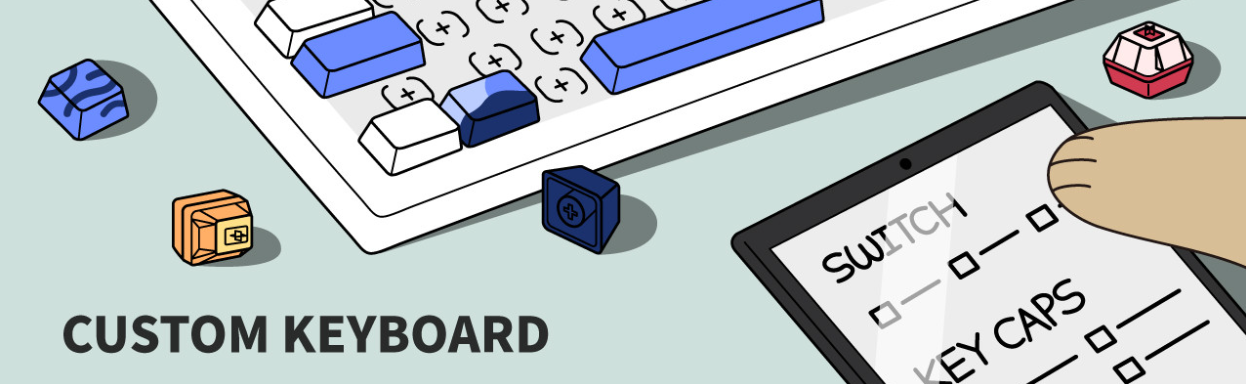
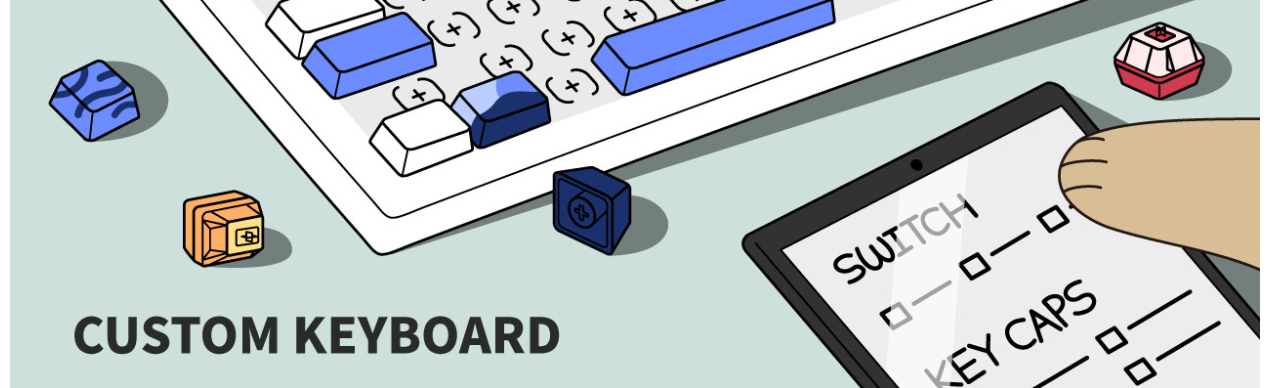
feat: Main

diff --git a/src/pages/Home.js b/src/pages/Home.js
@@ -1,33 +1,31 @@
-import React from "react";
+import React, { useState } from "react";
 import styled from "styled-components";
 import Layout from "../components/Layout";
 import Banner from "../components/Banner";
 import TextFrame from "../components/TextFrame";
 import ItemFrame1 from "../components/ItemFrame1";
 import ItemFrame2 from "../components/ItemFrame2";
-
-import { IoIosArrowForward, IoIosArrowBack } from "react-icons/io";
+import { MdArrowForwardIos, MdArrowBackIosNew } from "react-icons/md";
 
 const Container = styled.div`
-  width: 1550px;
+  width: 1500px;
   height: 100%;
-  display: flex-box;
-  align-items: center;
+  display: flex;
   flex-direction: column;
+  align-items: center;
 `;
 
 const Frame1 = styled.div`
-  width: 1550px;
+  width: 100%;
   height: 100%;
   display: flex;
   align-items: center;
   justify-content: space-between;
   flex-direction: row;
-  flex-wrap: wrap;
 `;
 
 const Frame2 = styled.div`
-  width: 1550px;
+  width: 100%;
   height: 100%;
   display: flex;
   align-items: center;
@@ -36,34 +34,114 @@ const Frame2 = styled.div`
   padding: 0 20px;
 `;
 
-const ArrowIconFront = styled(IoIosArrowForward)`
-  font-size: 24px;
+const ArrowIconFront = styled(MdArrowForwardIos)`
+  font-size: 30px;
+  cursor: pointer;
 `;
 
-const ArrowIconBack = styled(IoIosArrowBack)`
-  font-size: 24px;
+const ArrowIconBack = styled(MdArrowBackIosNew)`
+  font-size: 30px;
+  cursor: pointer;
 `;
+
+const RadioButtonContainer = styled.div`
+  display: flex;
+  justify-content: center;
+  margin-top: 30px;
+  margin-bottom: 30px;
+`;
+
+const RadioButton = styled.div`
+  width: 10px;
+  height: 10px;
+  background-color: ${({ isActive }) => (isActive ? '#6d8cff' : 'lightgrey')};
+  border-radius: 5px;
+  margin: 0 5px;
+  cursor: pointer;
+
+  &:hover {
+    background-color: #6d8cff;
+  }
+
+`;
+
 
 const HomeContent = () => {
+  const items1 = [
+    { image: "/images/test1.jpg", text: "Test 1" },
+    { image: "/images/test2.jpg", text: "Test 2" },
+    { image: "/images/test3.jpg", text: "Test 3" },
+  ];
+
+  const items2 = [
+    { image: "/images/keyboard1.png", text: "Keyboard 1" },
+    { image: "/images/keyboard2.png", text: "Keyboard 2" },
+    { image: "/images/keyboard3.png", text: "Keyboard 3" },
+    { image: "/images/keyboard4.png", text: "Keyboard 4" },
+    { image: "/images/keyboard5.png", text: "Keyboard 5" },
+    { image: "/images/keyboard6.jpg", text: "Keyboard 6" },
+    { image: "/images/keyboard7.png", text: "Keyboard 7" },
+    { image: "/images/keyboard8.jpg", text: "Keyboard 8" },
+  ];
+
+  const [currentIndex, setCurrentIndex] = useState(0);
+  const itemsPerPage = 4;
+
+  const totalPages = Math.ceil(items2.length / itemsPerPage);
+
+  const handleNext = () => {
+    if (currentIndex + itemsPerPage < items2.length) {
+      setCurrentIndex(currentIndex + itemsPerPage);
+    }
+  };
+
+  const handlePrev = () => {
+    if (currentIndex - itemsPerPage >= 0) {
+      setCurrentIndex(currentIndex - itemsPerPage);
+    }
+  };
+
+  const handleRadioClick = (index) => {
+    setCurrentIndex(index * itemsPerPage);
+  };
+
   return (
     <Container>
       <Banner />
 
       <Frame1>
-        {[...Array(3)].map((_, index) => (
-          <ItemFrame1 key={index} />
+        {items1.map((item, index) => (
+          <ItemFrame1 
+            key={index} 
+            image={item.image} 
+            text={item.text} />
         ))}
       </Frame1>
 
       <TextFrame>Popular Product</TextFrame>
 
       <Frame2>
-        <ArrowIconBack />
-        {[...Array(4)].map((_, index) => (
-          <ItemFrame2 key={index} />
-        ))}
-        <ArrowIconFront />
+        <ArrowIconBack onClick={handlePrev} />
+        {items2
+          .slice(currentIndex, currentIndex + itemsPerPage)
+          .map((item, index) => (
+            <ItemFrame2 
+              key={index} 
+              image={item.image} 
+              text={item.text} />
+          ))}
+        <ArrowIconFront onClick={handleNext} />
       </Frame2>
+
+      <RadioButtonContainer>
+        {Array.from({ length: totalPages }).map((_, index) => (
+          <RadioButton 
+            key={index}
+            isActive={currentIndex / itemsPerPage === index}
+            onClick={() => handleRadioClick(index)}
+          />
+        ))}
+      </RadioButtonContainer>
     </Container>
   );
 };

diff --git a/src/components/ItemFrame1.jsx b/src/components/ItemFrame1.jsx
@@ -2,32 +2,45 @@ import React from "react";
 import styled from "styled-components";
 
 const Container = styled.div`
-    width: 31%;
-    height: 440px;
-    border: solid 1px;
-`
+  width: 32%;
+  height: 520px;
+  border: solid 1px;
+  cursor: pointer;
+`;
 
 const ImageFrame1 = styled.div`
-    width: 100%;
-    height: 70%;
-    border: solid 1px;
-`
+  width: 100%;
+  height: 70%;
+  border: solid 1px;
+  background-image: url(${props => props.image});
+  background-size: cover;
+  background-position: center;
+`;
 
 const TextFrame1 = styled.div`
-    width: 100%;
-    height: 30%;
+  width: 100%;
+  height: 30%;
+  border: solid 1px;
+  display: flex;
+  align-items: center;
+  justify-content: center;
+`;
+
+const Text1 = styled.div`
     border: solid 1px;
 `
-const ItemFrame1 = () => {
-    return (
-        <>
-        <Container>
-            <ImageFrame1/>
-            <TextFrame1/>
-        </Container>
 
-        </>
-    )
-}
+const ItemFrame1 = ({image,text}) => {
+  return (
+    <>
+      <Container>
+      <ImageFrame1 image={image} />
+      <TextFrame1>
+        <Text1>{text}</Text1>
+      </TextFrame1>
+      </Container>
+    </>
+  );
+};
 
 export default ItemFrame1;

diff --git a/src/components/ItemFrame2.jsx b/src/components/ItemFrame2.jsx
@@ -5,25 +5,38 @@ const Container = styled.div`
   width: 300px;
   height: 350px;
   border: solid 1px;
+  cursor: pointer;
 `;
 
-const ImageFrame = styled.div`
+const ImageFrame2 = styled.div`
   width: 100%;
-  height: 80%;
+  height: 300px;
+  border: solid 1px;
+  background-image: url(${props => props.image});
+  background-size: cover;
+  background-position: center;
+`;
+
+const TextFrame2 = styled.div`
+  width: 100%;
+  height: 50px;
+  border: solid 1px;
+  display: flex;
+  align-items: center;
+  justify-content: center;
+`;
+
+const Text2 = styled.div`
   border: solid 1px;
 `;
 
-const TextContainer = styled.div`
-  width: 100%;
-  height: 20%;
-  border: solid 1px;
-`;
-
-const ItemFrame2 = () => {
+const ItemFrame2 = ({ image, text }) => {
   return (
     <Container>
-      <ImageFrame />
-      <TextContainer />
+      <ImageFrame2 image={image} />
+      <TextFrame2>
+        <Text2>{text}</Text2>
+      </TextFrame2>
     </Container>
   );
 };

diff --git a/src/components/Footer.jsx b/src/components/Footer.jsx
@@ -49,11 +49,11 @@ const Footer = () => {
                     <Icon><RiKakaoTalkFill /></Icon>
                     <Icon><AiFillDiscord /></Icon>
                 </IconWrapper>
-                <h4>팀명 뭐로 하지?</h4>
+                <h4 style={{paddingBottom:"10px"}}>Tabs</h4>
                 <span>인제대학교 | 경남 김해시 인제로 197 P&N 동아리방 TEL.010-2362-8861 | 대표: 현지훈</span>
                 <span>본사: 부산광역시 사상구 가야대로 xxx번길 xx 4층</span>
                 <span>고객센터: 055-334-7111 | E-MAIL: ji55hun@oasis.inje.ac.kr</span>
-                <span style={{paddingTop:"10px",fontWeight:"bold"}}>Copyright ⓒ 2024 커스텀키보드 제조기업 팀명 All rights reserved.</span>
+                <span style={{paddingTop:"10px",fontWeight:"bold"}}>Copyright ⓒ 2024 커스텀키보드 제조기업 Tabs All rights reserved.</span>
             </Frame>
         </Container>
     );

diff --git a/src/components/Header.jsx b/src/components/Header.jsx
@@ -29,18 +29,23 @@ const Frame = styled.div`
   background-color: white;
 `;
 
-const Logo = styled.div` // 임시 로고
-    display: flex;
-    font-size: 60px;
-    color: #7e8df7;
-    margin-left: 30px;
+const Logo = styled.div`
+  display: flex;
+  align-items: center;
+  width: 12%;
+  height: 100%;
+  border: solid 1px;
+  img {
+    width: 100%;
+    border: solid 1px;
+  }
 `;
 
 const LinkStyle = {
-    textDecoration: "none",
-    margin: "0px",
-    padding: "0px",
-  }
+  textDecoration: "none",
+  margin: "0px",
+  padding: "0px",
+};
 
 const Header = () => {
   const [hidden, setHidden] = useState(false);
@@ -73,9 +78,10 @@ const Header = () => {
     <Container hidden={hidden}>
       <Frame>
         <Logo>
-            <a href="/" style={LinkStyle}>Tabs</a>
+          <a href="/" style={LinkStyle}>
+            <img src="/images/logo.png" />
+          </a>
         </Logo>
-        
       </Frame>
     </Container>
   );

diff --git a/src/components/Banner.jsx b/src/components/Banner.jsx
@@ -5,9 +5,9 @@ const Container = styled.div`
   width: 100%;
   height: 500px;
   background-image: url("/images/banner.png");
-  background-size: cover;
+  background-size: 100% 100%;
   background-position: center;
-  margin-bottom: 100px;
+  margin-bottom: 80px;
   display: flex;
   align-items: center;
   justify-content: center;

diff --git a/src/fonts/Font.css b/src/fonts/Font.css
@@ -1,6 +1,6 @@
 @font-face {
     font-family: 'Black Han Sans';
-    src: url('./fonts/BlackHanSans-Regular.ttf') format('truetype');
+    src: url('./BlackHanSans-Regular.ttf') format('truetype');
     font-weight: 400;
     font-style: normal;
   }
